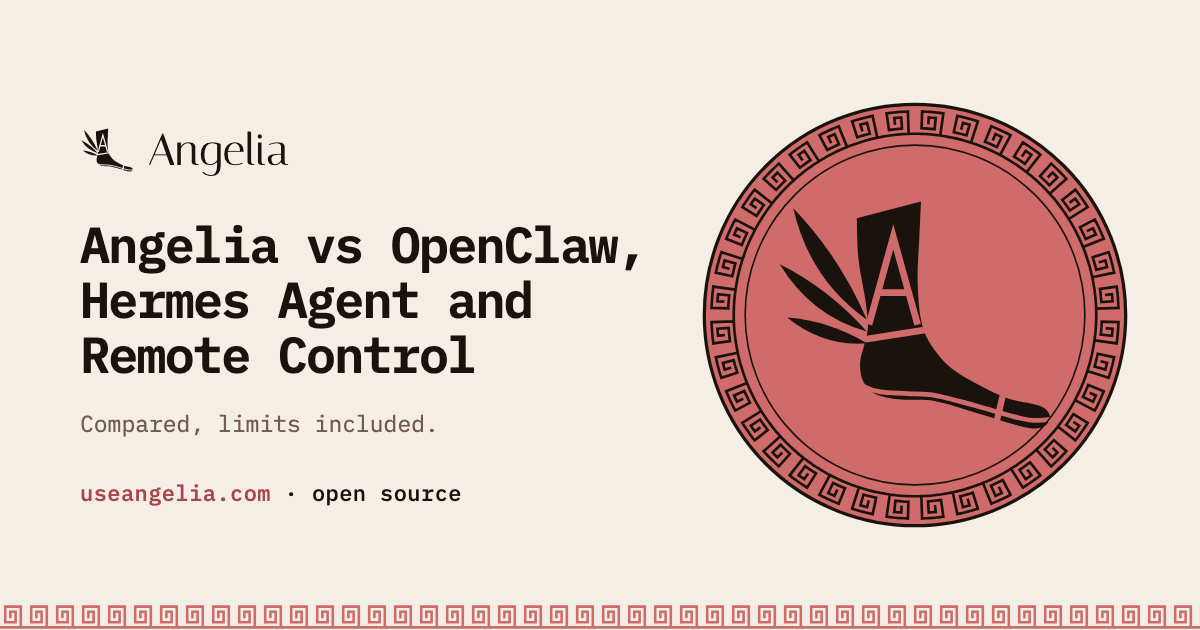
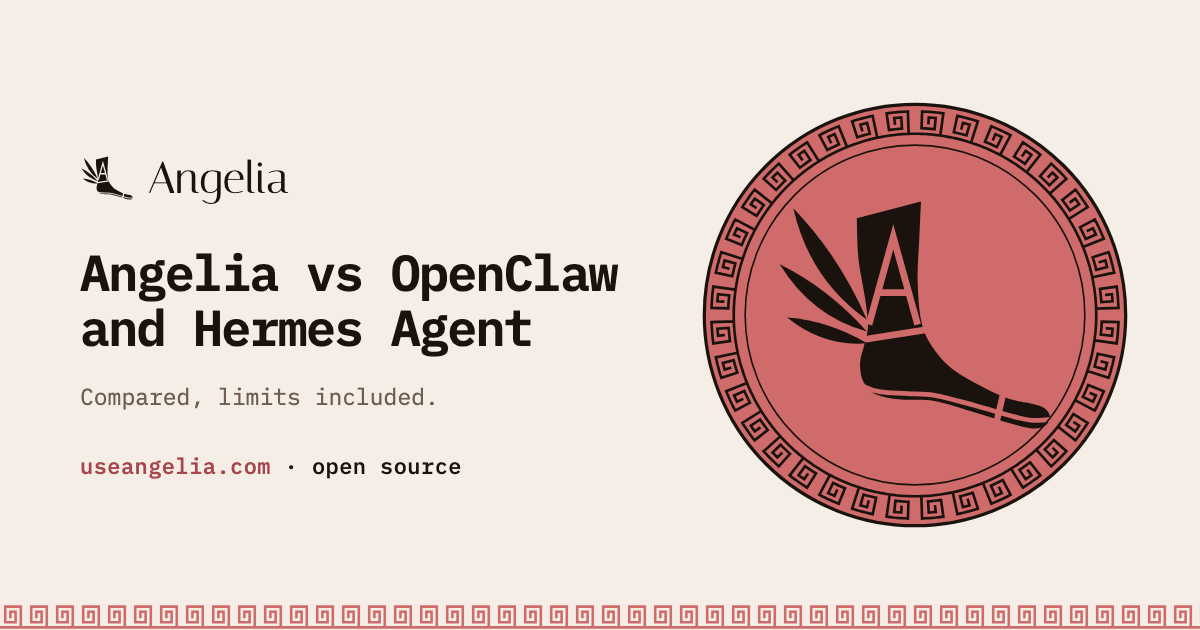
Site pages: review fixes
/claude-code: accept before compile (compile refuses unaccepted changes), and a
product title that leaves the WhatsApp and Telegram phrases to the guide.
/whatsapp: accept before pair on an existing setup, the tested CLIs named,
and where each turn goes. /telegram: the tested CLI named. /alternatives:
Angelia, OpenClaw and Hermes Agent side by side; Remote Control and channels
in two lines with a link to the guide; the Codex and pi sandbox is a default;
Hermes's sender rules point at its docs. Header: GitHub hides under 380 px,
so the Install button keeps a 20 px gutter down to 320 px.

Claude-Session: https://claude.ai/code/session_01GZyAtGV5qqgtoCfH4hDKha

diff --git a/site/pages/alternatives.html b/site/pages/alternatives.html
@@ -1,31 +1,31 @@
 <!--{
-  "title": "Angelia vs OpenClaw, Hermes Agent and Remote Control",
-  "description": "Angelia, OpenClaw, Hermes Agent, Claude Code Remote Control and the Telegram channel plugin compared: whose agent runs, chat apps, sessions, limits.",
+  "title": "Angelia vs OpenClaw and Hermes Agent",
+  "description": "Angelia, OpenClaw and Hermes Agent compared: whose agent does the work, chat apps, platforms, sessions, permissions, and when each one fits better.",
   "date": "2026-10-27",
   "nav": "Alternatives",
   "card": "Compared, limits included.",
   "draft": false
 }-->
-<p class="lede">Several tools put an AI agent in your chat app. They differ most in one thing: whose agent does the work. Angelia, Remote Control and Claude Code's Telegram channel plugin use a CLI you already run. OpenClaw and Hermes Agent bring an agent of their own, and OpenClaw can also run Claude Code or Gemini CLI as its engine. This page is on Angelia's site, so it says where the others are the better choice, and what Angelia cannot do.</p>
+<p class="lede">Several tools put an AI agent in your chat app. They differ most in one thing: whose agent does the work. Angelia runs a CLI you already use. OpenClaw and Hermes Agent bring an agent of their own, and OpenClaw can also run Claude Code or Gemini CLI as its engine. This page is on Angelia's site, so it says where the others are the better choice, and what Angelia cannot do.</p>
 <p class="fine">Facts checked against each project's own docs in October 2026. These projects change fast; check their docs before you decide.</p>
 
 <h2 id="side-by-side">Side by side</h2>
-<div class="table five"><table>
-<thead><tr><th></th><th>Angelia</th><th>OpenClaw</th><th>Hermes Agent</th><th>Remote Control</th><th>Telegram channel plugin</th></tr></thead>
+<div class="table three"><table>
+<thead><tr><th></th><th>Angelia</th><th>OpenClaw</th><th>Hermes Agent</th></tr></thead>
 <tbody>
-<tr><td>Whose agent</td><td>Your installed CLI: Claude Code, Codex, Grok Build or pi</td><td>Its own (the Gateway), on any model provider; can also run a local Claude Code or Gemini CLI</td><td>Its own agent loop, on your model provider or Nous Portal</td><td>Your Claude Code session</td><td>Your Claude Code session</td></tr>
-<tr><td>Chat apps</td><td>WhatsApp (second number), Telegram</td><td>WhatsApp, Telegram, Discord, iMessage, Slack, Teams, Signal, Google Chat and 20+ more</td><td>Telegram, Discord, Slack, WhatsApp, Signal, email</td><td>The Claude app and claude.ai/code, not a chat app</td><td>Telegram (Discord and iMessage are separate plugins); no WhatsApp</td></tr>
-<tr><td>Runs on</td><td>macOS</td><td>macOS, Linux, Windows (WSL2 or PowerShell); apps for iOS and Android</td><td>macOS 12+, Windows 10/11 desktop app, Linux; Docker, Termux</td><td>Where Claude Code runs</td><td>Where Claude Code runs; needs Bun</td></tr>
-<tr><td>Sessions</td><td>One session and one folder per chat</td><td>Its own; with a CLI backend, sessions and warm processes</td><td>Its own, with memory and subagents</td><td>The session you started</td><td>The one open session, while it is open</td></tr>
-<tr><td>Tools and permissions</td><td>The CLI's own: its tools, skills, MCP servers and permission prompts</td><td>OpenClaw's policy; with its tools on, Claude's Bash is replaced by OpenClaw's exec. Tools run on the host unless you set up a sandbox</td><td>Its own tools, self-made skills, scheduled tasks, 5 terminal backends</td><td>Claude Code's own</td><td>Claude Code's own; can relay permission prompts</td></tr>
-<tr><td>Model access</td><td>Starts your CLI under its own login</td><td>Calls a model provider; or starts Claude Code or Gemini CLI under their login</td><td>Calls the model's API itself</td><td>Claude Code's own login</td><td>Claude Code's own login</td></tr>
-<tr><td>Who may write</td><td>Paired chats only; per chat, owners and an allow list; only owners approve</td><td>Unknown senders pair by code (<code>openclaw pairing approve</code>)</td><td>Not checked here</td><td>Just you</td><td>Pairing code, then an allowlist</td></tr>
-<tr><td>Status</td><td>MIT, v0.3, one maintainer</td><td>MIT, large community (about 392k GitHub stars, October 2026)</td><td>MIT, by Nous Research</td><td>Built into Claude Code</td><td>Research preview; Team and Enterprise must turn it on</td></tr>
+<tr><td>Whose agent</td><td>Your installed CLI: Claude Code, Codex, Grok Build or pi</td><td>Its own (the Gateway), on any model provider; can also run a local Claude Code or Gemini CLI</td><td>Its own agent loop, on your model provider or Nous Portal</td></tr>
+<tr><td>Chat apps</td><td>WhatsApp (second number), Telegram</td><td>WhatsApp, Telegram, Discord, iMessage, Slack, Teams, Signal, Google Chat and 20+ more</td><td>Telegram, Discord, Slack, WhatsApp, Signal, email</td></tr>
+<tr><td>Runs on</td><td>macOS</td><td>macOS, Linux, Windows (WSL2 or PowerShell); apps for iOS and Android</td><td>macOS 12+, Windows 10/11 desktop app, Linux; Docker, Termux</td></tr>
+<tr><td>Sessions</td><td>One session and one folder per chat</td><td>Its own; with a CLI backend, sessions and warm processes</td><td>Its own, with memory and subagents</td></tr>
+<tr><td>Tools and permissions</td><td>The CLI's own: its tools, skills, MCP servers and permission prompts</td><td>OpenClaw's policy; with its tools on, Claude's Bash is replaced by OpenClaw's exec. Tools run on the host unless you set up a sandbox</td><td>Its own tools, self-made skills, scheduled tasks, 5 terminal backends</td></tr>
+<tr><td>Model access</td><td>Starts your CLI under its own login</td><td>Calls a model provider; or starts Claude Code or Gemini CLI under their login</td><td>Calls the model's API itself</td></tr>
+<tr><td>Who may write</td><td>Paired chats only; per chat, owners and an allow list; only owners approve</td><td>Unknown senders pair by code (<code>openclaw pairing approve</code>)</td><td>See <a href="https://hermes-agent.nousresearch.com">its docs</a></td></tr>
+<tr><td>Status</td><td>MIT, v0.3, one maintainer</td><td>MIT, large community (about 392k GitHub stars, October 2026)</td><td>MIT, by Nous Research</td></tr>
 </tbody>
 </table></div>
 
 <h2 id="angelia">Angelia</h2>
-<p>A small daemon on your Mac. It connects to WhatsApp and Telegram and starts your CLI for each chat, in that chat's own folder (a profile). It is not an agent and runs no model: the CLI you already set up does the work, with its own tools, skills, MCP servers and permission prompts. A command the profile may not run on its own comes to the chat and waits for an owner's yes; for Codex and pi, every command also runs in an OS sandbox. There is no Angelia server.</p>
+<p>A small daemon on your Mac. It connects to WhatsApp and Telegram and starts your CLI for each chat, in that chat's own folder (a profile). It is not an agent and runs no model: the CLI you already set up does the work, with its own tools, skills, MCP servers and permission prompts. A command the profile may not run on its own comes to the chat and waits for an owner's yes; for Codex and pi, every command also runs in an OS sandbox by default. There is no Angelia server.</p>
 <ul>
   <li><strong>Pick it when:</strong> you already trust one CLI and want it in your chats, with a separate session, folder and set of rules for each chat, running in the background.</li>
   <li><strong>Limits:</strong> macOS only for now. WhatsApp needs a second number. Two chat apps, not twenty. A young project (v0.3), maintained by one person.</li>
@@ -46,29 +46,20 @@
   <li><strong>Keep in mind:</strong> it is a different agent from your CLI. What you set up in Claude Code or Codex is not what answers in the chat.</li>
 </ul>
 
-<h2 id="remote-control">Claude Code Remote Control</h2>
-<p>Built into Claude Code. A session you start on your computer with <code>claude --remote-control</code>, or <code>/rc</code> in a running one, shows up in the Claude app and at claude.ai/code. The work runs on your machine; the phone is a window into that session.</p>
+<h2 id="claude-code-own">Claude Code's own: Remote Control and channels</h2>
 <ul>
-  <li><strong>Pick it when:</strong> you want to keep steering one coding session from the couch, with the full session view.</li>
-  <li><strong>Keep in mind:</strong> it is not a chat app, and the session is yours alone. Anthropic's <a href="https://code.claude.com/docs/en/remote-control">Remote Control docs</a> list the plans and what is stored.</li>
+  <li><strong>Remote Control</strong> shows one Claude Code session from your computer in the Claude app. Pick it to keep steering one coding session from your phone.</li>
+  <li><strong>Channels</strong> are official plugins that push Telegram, Discord or iMessage messages into the Claude Code session you have open. Pick one for a quick question to that session.</li>
 </ul>
-
-<h2 id="telegram-channel">Claude Code's Telegram channel plugin</h2>
-<p>An official MCP plugin, in research preview, that pushes Telegram messages into a Claude Code session you already have open; Discord and iMessage have their own. You start Claude Code with <code>claude --channels plugin:telegram@claude-plugins-official</code>. It needs Bun. Senders pair with a code and go on an allowlist, and it can relay permission prompts to the chat. On Team and Enterprise plans, it must be turned on first.</p>
-<ul>
-  <li><strong>Pick it when:</strong> you want to ask the session you have open a quick question from Telegram, Discord or iMessage, without a separate program running.</li>
-  <li><strong>Keep in mind:</strong> messages arrive only while that session is open, and every chat feeds that one session. There is no WhatsApp channel. See <a href="https://code.claude.com/docs/en/channels">Anthropic's channels docs</a>.</li>
-</ul>
+<p>Both, with their setup and limits, are compared with Angelia in <a href="/guides/claude-code-whatsapp-telegram/">Claude Code on WhatsApp and Telegram: four ways compared</a>.</p>
 
 <h2 id="which">Which one</h2>
 <ul>
-  <li>One coding session, from your phone: <strong>Remote Control</strong>.</li>
-  <li>A quick question into the session you have open, on Telegram, Discord or iMessage: the <strong>channel plugin</strong>.</li>
   <li>Many chat apps, Linux or Windows, or an agent not tied to one CLI: <strong>OpenClaw</strong>.</li>
   <li>An agent that keeps its own memory and writes its own skills: <strong>Hermes Agent</strong>.</li>
   <li>The CLI you already set up, one session and folder per chat, on WhatsApp or Telegram, from your Mac: <strong>Angelia</strong>.</li>
+  <li>One Claude Code session you started at your desk: <strong>Remote Control</strong> or a <strong>channel</strong>.</li>
 </ul>
-<p>For Claude Code on WhatsApp and Telegram in detail, with setup commands for each option, read <a href="/guides/claude-code-whatsapp-telegram/">four ways compared</a>.</p>
 
 <div class="try" id="try">
 <h2 id="try-angelia">Try Angelia</h2>

diff --git a/site/src/guide.html b/site/src/guide.html
@@ -80,8 +80,10 @@ footer{border-top:1px solid var(--rule);color:var(--soft);font-size:14px}
 footer .wrap{display:flex;justify-content:space-between;gap:16px;flex-wrap:wrap;padding-top:22px;padding-bottom:28px;max-width:1160px}
 footer a{color:inherit;text-decoration:none}
 @media (max-width:560px){header nav a.docs{display:none}header nav a{margin-left:16px}}
-/* The narrowest phones: the brand and three links still fit, the Install button whole. */
+/* The narrowest phones: the brand and the links still fit, the Install button whole, a gutter on the right.
+   Below 380 px GitHub goes (the footer has it). */
 @media (max-width:420px){.brand span{font-size:24px}.brand svg{width:30px;height:30px}header nav a{margin-left:12px;font-size:14px}header nav a.install-link{padding:6px 11px}}
+@media (max-width:380px){header nav a.gh{display:none}}
 header nav a.install-link{background:#D06B6B;color:#1A120D;opacity:1;padding:6px 14px;border-radius:999px;font-weight:600}
 .more ul{padding-left:1.2em}
 .try{margin:40px 0 0;padding:22px 24px 6px;border-radius:12px;background:var(--bg-2)}
@@ -89,7 +91,7 @@ header nav a.install-link{background:#D06B6B;color:#1A120D;opacity:1;padding:6px
 /* The table is wider than a phone: say so, and keep the hint in view while it scrolls. */
 .table::before{content:"Swipe sideways for all four columns →";display:none;position:sticky;left:0;padding:8px 11px;font-size:12.5px;color:var(--soft);background:var(--bg-2);border-bottom:1px solid var(--rule)}
 @media (max-width:760px){.table::before{display:block}}
-.table.five::before{content:"Swipe sideways for all five columns →"}
+.table.three::before{content:"Swipe sideways for all three columns →"}
 /* A docs page (/docs/): the repository's Markdown. Its tables fit the column unless they are wide, and a
    code block keeps its lines, since some draw a folder tree. */
 .toc{margin:6px 0 30px;padding:14px 18px 4px;border:1px solid var(--rule);border-radius:10px;font-size:14px}
@@ -113,7 +115,7 @@ h3[id]{scroll-margin-top:16px}
 <header>
   <div class="wrap">
     <a class="brand" href="/" aria-label="Angelia home"><svg><use href="#mark"/></svg><span>Angelia</span></a>
-    <nav aria-label="Main"><a href="/guides/">Guides</a><a class="docs" href="/docs/">Docs</a><a href="https://github.com/{{REPO}}">GitHub</a><a class="install-link" href="/#top">Install</a></nav>
+    <nav aria-label="Main"><a href="/guides/">Guides</a><a class="docs" href="/docs/">Docs</a><a class="gh" href="https://github.com/{{REPO}}">GitHub</a><a class="install-link" href="/#top">Install</a></nav>
   </div>
 </header>
 <main class="wrap" id="content">

diff --git a/site/pages/whatsapp.html b/site/pages/whatsapp.html
@@ -21,6 +21,7 @@
   <li>A Mac with Node 22.23.4+, 24.22.1+ or 26.12.1+ and git.</li>
   <li>A supported CLI, installed and signed in: Claude Code 2.1.270+, Codex 0.157+, Grok Build 1.0.13+ or pi 0.80.4+ (<a href="/docs/reference/#backends-in-detail">backends</a>).</li>
   <li>A phone with the second number on WhatsApp, to scan the QR code once.</li>
+  <li>Tested on WhatsApp so far: Claude Code and Grok Build. Codex and pi on WhatsApp are not tested yet.</li>
   <li>Optional: <code>brew install openai-whisper ffmpeg</code> for voice notes.</li>
 </ul>
 
@@ -33,7 +34,10 @@ angelia service install</code></pre>
   <li>Pick a CLI and a folder for the first profile.</li>
   <li>From your own phone, send the second number a message in the chat it should answer, and confirm it in the wizard.</li>
 </ol>
-<p><code>angelia service install</code> keeps Angelia running: it starts at login and comes back after a crash. On a setup you already have, add <code>whatsapp: { auth_dir: ~/.angelia/wa }</code> to <code>~/.angelia/workspace/routing.yaml</code> and run <code>angelia pair</code>.</p>
+<p><code>angelia service install</code> keeps Angelia running: it starts at login and comes back after a crash. On a setup you already have, add <code>whatsapp: { auth_dir: ~/.angelia/wa }</code> to <code>~/.angelia/workspace/routing.yaml</code>, then:</p>
+<pre><code>angelia accept
+angelia pair</code></pre>
+<p><code>angelia pair</code> reads the table you accepted, so accept first. Then send <code>/restart</code> in a chat you own, or run <code>angelia restart</code>.</p>
 
 <h2 id="groups">Groups</h2>
 <ul>
@@ -55,6 +59,7 @@ angelia service install</code></pre>
 <h2 id="privacy">Security and privacy</h2>
 <ul>
   <li>WhatsApp messages are end-to-end encrypted to the linked device, which is your Mac. Angelia has no server and keeps no copy of your messages.</li>
+  <li>Each turn goes to your CLI's model provider, under that CLI's own terms.</li>
   <li>The WhatsApp login lives in <code>auth_dir</code> (<code>~/.angelia/wa</code>, mode 700). It is as good as the account, so every profile's file tools are denied it.</li>
   <li>The daemon keeps the last hour of messages it sent (up to 500) in memory, never on disk, so a device that could not decrypt one gets it again.</li>
   <li><code>angelia unpair</code> logs that one linked device out and deletes its login. The phone and its other linked devices are not touched.</li>

diff --git a/site/pages/claude-code.html b/site/pages/claude-code.html
@@ -1,6 +1,6 @@
 <!--{
-  "title": "Use Claude Code from WhatsApp or Telegram",
-  "description": "Angelia runs your own Claude Code on your Mac for each WhatsApp or Telegram chat: your CLAUDE.md, skills and MCP servers, approvals in the chat.",
+  "title": "Angelia for Claude Code: setup, approvals and limits",
+  "description": "What Angelia gives Claude Code: a session and folder per chat, your CLAUDE.md, skills and MCP servers as they are, approvals, voice notes, files, limits.",
   "date": "2026-10-27",
   "nav": "Claude Code",
   "card": "One session per chat, on your Mac.",
@@ -31,9 +31,10 @@ angelia service install</code></pre>
 <p>The agent works in its profile's folder, not in your current repo. To let it work on a repo, list the repo in the profile's <code>add_dirs</code> in <code>~/.angelia/workspace/routing.yaml</code>:</p>
 <pre><code>profiles:
   main: { cwd: ~/.angelia/workspace/profiles/main, permission_mode: acceptEdits, add_dirs: [~/code/my-app] }</code></pre>
-<p>Then compile the profile and restart:</p>
-<pre><code>angelia compile main --write</code></pre>
-<p>Send <code>/restart</code> in the chat. It checks the table first. If the table gives new rights since you last accepted it, it lists them and waits for <code>/restart confirm</code>. Every step, in more detail: <a href="/guides/claude-code-from-phone/">how to control Claude Code from your phone</a>.</p>
+<p>Then take the change and apply the profile's rules. Compile refuses while the table has changes you have not accepted, so accept first:</p>
+<pre><code>angelia accept
+angelia compile main --write</code></pre>
+<p>Send <code>/restart</code> in the chat. It checks the table first. If it lists new rights, send <code>/restart confirm</code>. Every step, in more detail: <a href="/guides/claude-code-from-phone/">how to control Claude Code from your phone</a>.</p>
 
 <h2 id="what-works">What works from the chat</h2>
 <h3 id="approvals">Approvals</h3>

diff --git a/site/pages/telegram.html b/site/pages/telegram.html
@@ -12,6 +12,7 @@
 <ul>
   <li>A Mac with Node 22.23.4+, 24.22.1+ or 26.12.1+ and git.</li>
   <li>A supported CLI, installed and signed in: Claude Code 2.1.270+, Codex 0.157+, Grok Build 1.0.13+ or pi 0.80.4+ (<a href="/docs/reference/#backends-in-detail">backends</a>).</li>
+  <li>Tested on Telegram so far: Claude Code. Codex, Grok Build and pi on Telegram are not tested yet.</li>
   <li>A bot token. Open <a href="https://t.me/BotFather">@BotFather</a> in Telegram, send <code>/newbot</code>, pick a name, and keep the token it gives you.</li>
   <li>Optional: <code>brew install openai-whisper ffmpeg</code> for voice notes.</li>
 </ul>
